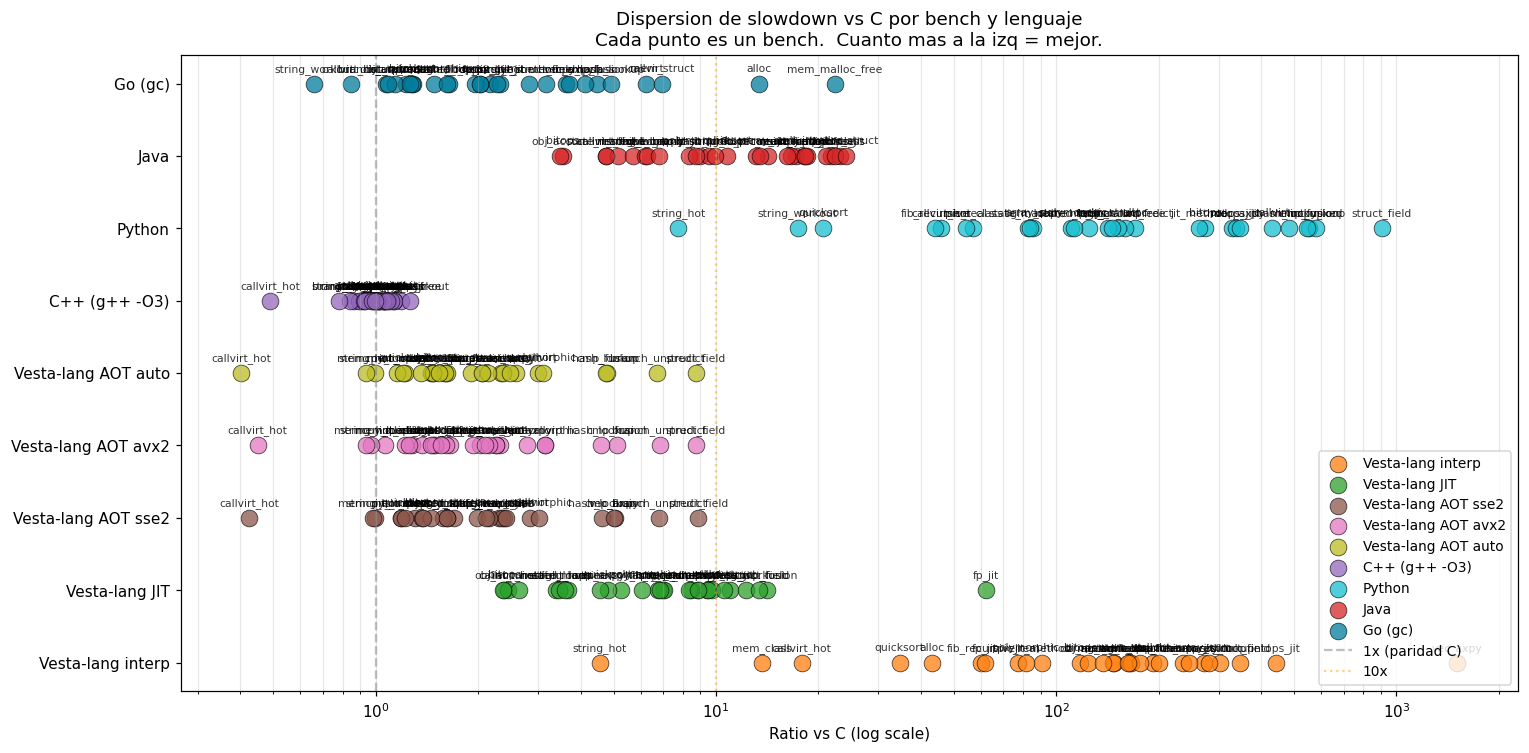
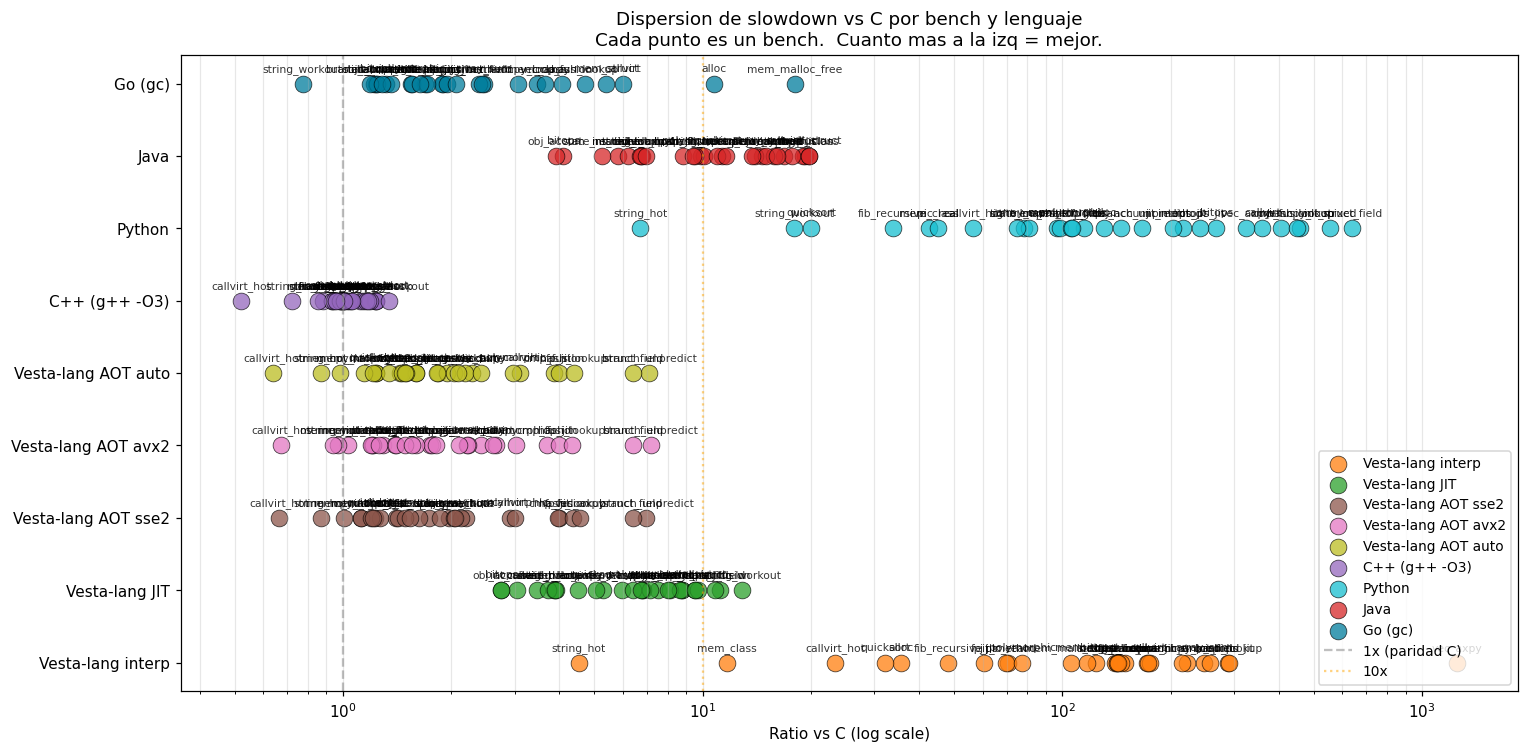
vx(asm): lift de movzx/movsx/movsxd (extension de ancho) a IR
El lifter general reconoce las extensiones de ancho: movzx (zero-extend) y
movsx/movsxd (sign-extend) leen la fuente a su ancho y la escriben en el destino
con la semantica exacta de x86 (ya cubierta por el modelo de anchos).  Solo
reg-reg; memoria -> camino opaco.  Verificado interp==jit==aot (incluido byte de
16 bits y sign-extend).  Ejemplo asm_movext.vx + test modes3.  e2e 674/0.

diff --git a/bench_plots/index.html b/bench_plots/index.html
@@ -33,7 +33,7 @@
     </style>
 </head><body>
 <h1>VestaVM Benchmark Report</h1>
-<p class="meta">Generado 2026-07-18 19:25:49 &middot; JSON: <code>F:\C\VM\bench_results.json</code></p>
+<p class="meta">Generado 2026-07-19 21:21:10 &middot; JSON: <code>F:\C\VM\bench_results.json</code></p>
 <h2>Sistema</h2>
 <dl class="sysinfo">
 <dt>CPU</dt><dd>13th Gen Intel(R) Core(TM) i7-13700KF (16 fisicos / 24 logicos @ 3400 MHz)</dd>
@@ -43,7 +43,7 @@
 </dl>
 <h2>Toolchains</h2>
 <dl class="sysinfo">
-<dt>Vesta-lang VM</dt><dd>Vesta v0.1.0-alpha (build 2026-07-18 19:22:17, 5430950+)</dd>
+<dt>Vesta-lang VM</dt><dd>Vesta v0.1.0-alpha (build 2026-07-19 21:19:00, 91d3668+)</dd>
 <dt>C (gcc)</dt><dd>gcc.EXE (tdm64-1) 10.3.0</dd>
 <dt>C++ (g++)</dt><dd>g++.EXE (tdm64-1) 10.3.0</dd>
 <dt>Python</dt><dd>Python 3.11.0</dd>
@@ -55,51 +55,51 @@
 <table>
 <thead><tr><th>Benchmark</th><th>Vesta-lang interp</th><th>Vesta-lang JIT</th><th>Vesta-lang AOT sse2</th><th>Vesta-lang AOT avx2</th><th>Vesta-lang AOT auto</th><th>C (gcc -O3)</th><th>C++ (g++ -O3)</th><th>Python (CPython)</th><th>Java (HotSpot)</th><th>Go (gc)</th></tr></thead>
 <tbody>
-<tr><td>alloc</td><td>155.7</td><td>34.0</td><td>4.7</td><td>4.6</td><td>5.3</td><td>3.6</td><td class="winner">3.1</td><td>615.2</td><td>78.6</td><td>48.4</td></tr>
-<tr><td>array_sum</td><td>1569.4</td><td>40.4</td><td>13.7</td><td>13.3</td><td>13.4</td><td>5.8</td><td class="winner">5.2</td><td>493.7</td><td>82.1</td><td>12.5</td></tr>
-<tr><td>bitops</td><td>3306.0</td><td>67.1</td><td>38.3</td><td>38.5</td><td>41.4</td><td>28.1</td><td class="winner">28.0</td><td>7705.2</td><td>99.7</td><td>34.5</td></tr>
-<tr><td>branch_unpredict</td><td>4734.8</td><td>177.9</td><td>136.9</td><td>137.5</td><td>135.3</td><td>20.1</td><td class="winner">18.0</td><td>3216.4</td><td>180.4</td><td>21.6</td></tr>
-<tr><td>callvirt</td><td>950.6</td><td>48.0</td><td>14.1</td><td>15.6</td><td>14.9</td><td class="winner">4.9</td><td>5.2</td><td>2131.0</td><td>84.9</td><td>30.8</td></tr>
-<tr><td>callvirt_hot</td><td>342.5</td><td>46.9</td><td>8.1</td><td>8.6</td><td class="winner">7.7</td><td>19.2</td><td>9.4</td><td>878.1</td><td>91.0</td><td>16.2</td></tr>
-<tr><td>cmp_fusion</td><td>750.1</td><td>52.9</td><td>18.9</td><td>19.1</td><td>18.0</td><td>3.7</td><td class="winner">3.1</td><td>2076.5</td><td>79.0</td><td>16.7</td></tr>
-<tr><td>fib_recursive</td><td>376.6</td><td>44.1</td><td>14.4</td><td>12.7</td><td>12.8</td><td class="winner">6.3</td><td>6.6</td><td>276.3</td><td>81.8</td><td>12.6</td></tr>
-<tr><td>fp_jit</td><td>724.2</td><td>731.9</td><td class="na">N/A</td><td class="na">N/A</td><td class="na">N/A</td><td>11.8</td><td class="winner">10.8</td><td>1464.2</td><td>98.0</td><td>22.9</td></tr>
-<tr><td>hash_lookup</td><td>4372.7</td><td>97.3</td><td>66.4</td><td>66.0</td><td>68.3</td><td>14.4</td><td class="winner">14.0</td><td>6964.0</td><td>137.6</td><td>70.7</td></tr>
-<tr><td>int_mixed</td><td>2876.5</td><td>51.2</td><td>23.0</td><td>23.7</td><td>23.8</td><td class="winner">19.5</td><td>19.9</td><td>11309.0</td><td>100.3</td><td>22.1</td></tr>
-<tr><td>intops_jit</td><td>1591.9</td><td>39.6</td><td>8.5</td><td>8.1</td><td>9.3</td><td class="winner">3.6</td><td>4.3</td><td>1182.4</td><td>83.3</td><td>8.4</td></tr>
-<tr><td>jit_method</td><td>437.9</td><td>40.6</td><td>11.6</td><td>10.8</td><td>11.4</td><td>4.8</td><td class="winner">4.5</td><td>1266.3</td><td>87.5</td><td>13.6</td></tr>
-<tr><td>mem_class</td><td>46.4</td><td>32.3</td><td>4.1</td><td>3.6</td><td>3.9</td><td class="winner">3.4</td><td>3.9</td><td>194.4</td><td>76.1</td><td>14.1</td></tr>
-<tr><td>mem_malloc_free</td><td>677.4</td><td>34.6</td><td>7.0</td><td>6.1</td><td>6.6</td><td class="winner">4.1</td><td>4.7</td><td>629.0</td><td>76.6</td><td>92.7</td></tr>
-<tr><td>mem_struct</td><td>544.9</td><td>34.7</td><td>5.3</td><td>5.4</td><td>5.3</td><td class="winner">3.3</td><td>3.5</td><td>465.7</td><td>79.1</td><td>22.7</td></tr>
-<tr><td>memcpy_loop</td><td>1820.4</td><td>34.1</td><td>6.5</td><td class="winner">6.3</td><td>6.5</td><td>6.5</td><td>7.0</td><td>3550.0</td><td>107.5</td><td>23.5</td></tr>
-<tr><td>nested_loops</td><td>2227.9</td><td>51.4</td><td>23.9</td><td>24.4</td><td>24.3</td><td class="winner">15.2</td><td>15.2</td><td>1678.6</td><td>86.6</td><td>24.9</td></tr>
-<tr><td>obj_accum</td><td>3795.7</td><td>72.2</td><td>44.3</td><td>45.4</td><td>44.9</td><td class="winner">30.5</td><td>31.1</td><td>4443.2</td><td>106.3</td><td>33.1</td></tr>
-<tr><td>pic_real</td><td>470.7</td><td>41.9</td><td>12.1</td><td>11.8</td><td>11.6</td><td class="winner">6.1</td><td>6.8</td><td>331.2</td><td>82.3</td><td>7.9</td></tr>
-<tr><td>polymorphic</td><td>798.4</td><td>59.4</td><td>29.6</td><td>30.8</td><td>30.3</td><td class="winner">9.8</td><td>10.4</td><td>1102.7</td><td>85.5</td><td>14.5</td></tr>
-<tr><td>quicksort</td><td>280.3</td><td>38.9</td><td>9.9</td><td>10.1</td><td>9.8</td><td class="winner">8.1</td><td>8.3</td><td>166.9</td><td>87.1</td><td>10.3</td></tr>
-<tr><td>rotops_jit</td><td>1055.8</td><td>38.1</td><td>5.9</td><td>6.3</td><td>5.9</td><td class="winner">4.3</td><td>4.5</td><td>1449.8</td><td>78.9</td><td>8.7</td></tr>
-<tr><td>state_machine</td><td>3569.1</td><td>74.7</td><td>43.7</td><td>43.7</td><td>43.4</td><td class="winner">20.3</td><td>20.4</td><td>1676.3</td><td>96.0</td><td>25.5</td></tr>
-<tr><td>string_hot</td><td>42.0</td><td>31.8</td><td>9.0</td><td>8.7</td><td>8.6</td><td>9.2</td><td class="winner">7.2</td><td>71.4</td><td>91.8</td><td>21.0</td></tr>
-<tr><td>string_workout</td><td>4386.2</td><td>391.8</td><td>67.3</td><td>66.9</td><td>65.4</td><td>31.9</td><td>40.2</td><td>555.0</td><td>197.5</td><td class="winner">21.0</td></tr>
-<tr><td>struct_field</td><td>2122.6</td><td>81.7</td><td>54.2</td><td>53.3</td><td>53.2</td><td>6.1</td><td class="winner">6.0</td><td>5530.4</td><td>98.5</td><td>19.3</td></tr>
-<tr><td>tight_loop</td><td>2368.1</td><td>52.6</td><td>23.6</td><td>22.7</td><td>22.4</td><td class="winner">14.6</td><td>15.7</td><td>1225.8</td><td>91.3</td><td>23.6</td></tr>
-<tr><td>vec_axpy</td><td>27986.0</td><td>84.7</td><td>92.8</td><td>51.6</td><td>45.9</td><td>18.5</td><td class="winner">18.4</td><td>6425.2</td><td>125.8</td><td>68.7</td></tr>
+<tr><td>alloc</td><td>170.5</td><td>41.9</td><td>5.9</td><td>6.2</td><td>5.9</td><td class="winner">4.8</td><td>5.3</td><td>625.7</td><td>92.4</td><td>51.7</td></tr>
+<tr><td>array_sum</td><td>1655.1</td><td>50.1</td><td>14.7</td><td>16.2</td><td>15.3</td><td>6.7</td><td class="winner">6.6</td><td>521.8</td><td>97.7</td><td>16.5</td></tr>
+<tr><td>bitops</td><td>3559.6</td><td>78.9</td><td>40.2</td><td>40.0</td><td>41.3</td><td class="winner">28.7</td><td>29.4</td><td>7679.1</td><td>117.5</td><td>35.5</td></tr>
+<tr><td>branch_unpredict</td><td>4351.5</td><td>172.4</td><td>136.7</td><td>140.8</td><td>139.6</td><td>19.6</td><td class="winner">19.5</td><td>3275.9</td><td>194.7</td><td>23.9</td></tr>
+<tr><td>callvirt</td><td>939.5</td><td>51.9</td><td>15.9</td><td>14.5</td><td>17.0</td><td>5.4</td><td class="winner">4.8</td><td>1960.5</td><td>91.7</td><td>32.6</td></tr>
+<tr><td>callvirt_hot</td><td>326.5</td><td>48.4</td><td>9.3</td><td>9.4</td><td>9.0</td><td>14.0</td><td class="winner">7.3</td><td>791.5</td><td>95.1</td><td>18.5</td></tr>
+<tr><td>cmp_fusion</td><td>739.6</td><td>55.1</td><td>19.7</td><td>18.2</td><td>19.1</td><td class="winner">4.9</td><td>5.6</td><td>2006.0</td><td>93.8</td><td>20.0</td></tr>
+<tr><td>fib_recursive</td><td>399.7</td><td>49.7</td><td>14.4</td><td>14.5</td><td>15.3</td><td>8.3</td><td class="winner">7.8</td><td>279.9</td><td>93.8</td><td>15.7</td></tr>
+<tr><td>fp_jit</td><td>765.5</td><td>86.5</td><td>50.3</td><td>50.7</td><td>50.6</td><td>12.7</td><td class="winner">12.6</td><td>1458.9</td><td>111.7</td><td>23.9</td></tr>
+<tr><td>hash_lookup</td><td>4472.9</td><td>105.1</td><td>67.2</td><td>66.9</td><td>67.7</td><td>15.4</td><td class="winner">14.4</td><td>7083.0</td><td>156.0</td><td>72.6</td></tr>
+<tr><td>int_mixed</td><td>3041.4</td><td>63.5</td><td>26.5</td><td>25.1</td><td>25.8</td><td class="winner">20.9</td><td>20.9</td><td>11579.3</td><td>121.3</td><td>26.0</td></tr>
+<tr><td>intops_jit</td><td>1671.4</td><td>55.8</td><td>11.3</td><td>10.1</td><td>11.2</td><td>5.7</td><td class="winner">5.7</td><td>1242.0</td><td>101.5</td><td>11.2</td></tr>
+<tr><td>jit_method</td><td>462.5</td><td>53.4</td><td>14.0</td><td>14.6</td><td>13.3</td><td class="winner">6.6</td><td>6.6</td><td>1336.6</td><td>103.4</td><td>15.7</td></tr>
+<tr><td>mem_class</td><td>59.4</td><td>44.1</td><td>5.7</td><td>5.3</td><td>6.9</td><td class="winner">5.1</td><td>6.2</td><td>217.0</td><td>100.8</td><td>17.7</td></tr>
+<tr><td>mem_malloc_free</td><td>721.4</td><td>43.6</td><td>7.7</td><td>8.3</td><td>7.8</td><td>6.8</td><td class="winner">6.4</td><td>657.8</td><td>95.0</td><td>122.8</td></tr>
+<tr><td>mem_struct</td><td>577.0</td><td>46.7</td><td>7.0</td><td>6.9</td><td>7.8</td><td class="winner">4.9</td><td>6.1</td><td>484.1</td><td>97.4</td><td>26.6</td></tr>
+<tr><td>memcpy_loop</td><td>1861.3</td><td>45.7</td><td>8.7</td><td class="winner">8.4</td><td>8.5</td><td>8.7</td><td>10.7</td><td>3889.8</td><td>130.2</td><td>26.5</td></tr>
+<tr><td>nested_loops</td><td>2276.5</td><td>62.6</td><td>26.4</td><td>25.9</td><td>25.8</td><td class="winner">16.2</td><td>16.9</td><td>1720.9</td><td>100.6</td><td>27.5</td></tr>
+<tr><td>obj_accum</td><td>4466.5</td><td>86.3</td><td>46.8</td><td>46.6</td><td>46.0</td><td>31.4</td><td class="winner">30.8</td><td>4589.1</td><td>123.0</td><td>37.4</td></tr>
+<tr><td>pic_real</td><td>541.3</td><td>55.6</td><td>14.5</td><td>14.1</td><td>14.2</td><td class="winner">7.8</td><td>9.2</td><td>351.9</td><td>107.0</td><td>12.0</td></tr>
+<tr><td>polymorphic</td><td>831.7</td><td>72.6</td><td>32.2</td><td>32.5</td><td>31.8</td><td class="winner">10.7</td><td>12.4</td><td>1143.5</td><td>102.5</td><td>16.7</td></tr>
+<tr><td>quicksort</td><td>309.3</td><td>48.4</td><td>11.5</td><td>11.5</td><td>11.6</td><td class="winner">9.6</td><td>10.1</td><td>192.3</td><td>105.4</td><td>13.0</td></tr>
+<tr><td>rotops_jit</td><td>1096.9</td><td>49.9</td><td>7.6</td><td>7.9</td><td>9.3</td><td class="winner">6.2</td><td>7.3</td><td>1509.6</td><td>100.8</td><td>10.7</td></tr>
+<tr><td>state_machine</td><td>3719.4</td><td>83.9</td><td>43.8</td><td>47.4</td><td>46.8</td><td class="winner">21.5</td><td>22.7</td><td>1733.5</td><td>113.1</td><td>27.7</td></tr>
+<tr><td>string_hot</td><td>54.0</td><td>44.3</td><td>10.4</td><td>11.2</td><td>10.4</td><td>11.9</td><td class="winner">8.6</td><td>80.0</td><td>112.3</td><td>24.7</td></tr>
+<tr><td>string_workout</td><td>4735.3</td><td>428.2</td><td>68.3</td><td>70.1</td><td>69.5</td><td>33.4</td><td>44.9</td><td>598.7</td><td>224.1</td><td class="winner">25.8</td></tr>
+<tr><td>struct_field</td><td>2277.4</td><td>96.3</td><td>56.8</td><td>56.9</td><td>56.9</td><td>8.9</td><td class="winner">7.6</td><td>5670.3</td><td>103.2</td><td>21.7</td></tr>
+<tr><td>tight_loop</td><td>2232.2</td><td>60.7</td><td>24.1</td><td>24.3</td><td>23.3</td><td class="winner">15.6</td><td>15.8</td><td>1166.2</td><td>105.2</td><td>25.6</td></tr>
+<tr><td>vec_axpy</td><td>25493.8</td><td>91.7</td><td>93.0</td><td>53.2</td><td>49.3</td><td>20.3</td><td class="winner">19.5</td><td>6579.6</td><td>141.5</td><td>74.4</td></tr>
 </tbody></table>
 <h2>Geomean slowdown vs C por categoria</h2>
 <p class="meta">Verde &lt;1.5x &middot; Amarillo &lt;3x &middot; Rojo &ge;3x</p>
 <table>
 <thead><tr><th>Categoria</th><th>N</th><th>Vesta-lang interp</th><th>Vesta-lang JIT</th><th>Vesta-lang AOT sse2</th><th>Vesta-lang AOT avx2</th><th>Vesta-lang AOT auto</th><th>C++ (g++ -O3)</th><th>Python (CPython)</th><th>Java (HotSpot)</th><th>Go (gc)</th></tr></thead>
 <tbody>
-<tr><td>alloc</td><td>4</td><td class="cat-bad">63.17x</td><td class="cat-bad">9.42x</td><td class="cat-good">1.44x</td><td class="cat-good">1.35x</td><td class="cat-good">1.44x</td><td class="cat-good">1.04x</td><td class="cat-bad">120.25x</td><td class="cat-bad">21.56x</td><td class="cat-bad">9.61x</td></tr>
-<tr><td>bit</td><td>2</td><td class="cat-bad">169.85x</td><td class="cat-bad">4.60x</td><td class="cat-good">1.37x</td><td class="cat-good">1.41x</td><td class="cat-good">1.42x</td><td class="cat-good">1.02x</td><td class="cat-bad">303.85x</td><td class="cat-bad">8.06x</td><td class="cat-mid">1.58x</td></tr>
-<tr><td>branch</td><td>3</td><td class="cat-bad">112.78x</td><td class="cat-bad">5.39x</td><td class="cat-mid">2.61x</td><td class="cat-mid">2.64x</td><td class="cat-mid">2.59x</td><td class="cat-good">0.97x</td><td class="cat-bad">64.83x</td><td class="cat-bad">7.70x</td><td class="cat-good">1.20x</td></tr>
-<tr><td>fp</td><td>1</td><td class="cat-bad">61.60x</td><td class="cat-bad">62.25x</td><td class="na">N/A</td><td class="na">N/A</td><td class="na">N/A</td><td class="cat-good">0.92x</td><td class="cat-bad">124.55x</td><td class="cat-bad">8.34x</td><td class="cat-mid">1.95x</td></tr>
-<tr><td>hash</td><td>1</td><td class="cat-bad">304.01x</td><td class="cat-bad">6.77x</td><td class="cat-bad">4.62x</td><td class="cat-bad">4.59x</td><td class="cat-bad">4.75x</td><td class="cat-good">0.97x</td><td class="cat-bad">484.17x</td><td class="cat-bad">9.57x</td><td class="cat-bad">4.92x</td></tr>
-<tr><td>int</td><td>7</td><td class="cat-bad">149.93x</td><td class="cat-bad">6.05x</td><td class="cat-mid">2.13x</td><td class="cat-mid">2.06x</td><td class="cat-mid">2.10x</td><td class="cat-good">1.01x</td><td class="cat-bad">196.69x</td><td class="cat-bad">11.14x</td><td class="cat-mid">2.10x</td></tr>
-<tr><td>mem</td><td>2</td><td class="cat-bad">276.31x</td><td class="cat-bad">6.07x</td><td class="cat-mid">1.54x</td><td class="cat-good">1.50x</td><td class="cat-mid">1.52x</td><td class="cat-good">0.99x</td><td class="cat-bad">216.42x</td><td class="cat-bad">15.36x</td><td class="cat-mid">2.80x</td></tr>
-<tr><td>misc</td><td>2</td><td class="cat-bad">433.38x</td><td class="cat-bad">3.29x</td><td class="cat-mid">2.70x</td><td class="cat-mid">2.03x</td><td class="cat-mid">1.91x</td><td class="cat-good">1.01x</td><td class="cat-bad">224.67x</td><td class="cat-bad">4.86x</td><td class="cat-mid">2.01x</td></tr>
-<tr><td>oop</td><td>5</td><td class="cat-bad">94.42x</td><td class="cat-bad">6.68x</td><td class="cat-mid">2.30x</td><td class="cat-mid">2.37x</td><td class="cat-mid">2.28x</td><td class="cat-good">0.90x</td><td class="cat-bad">161.31x</td><td class="cat-bad">10.91x</td><td class="cat-mid">2.00x</td></tr>
-<tr><td>string</td><td>2</td><td class="cat-bad">25.04x</td><td class="cat-bad">6.51x</td><td class="cat-good">1.44x</td><td class="cat-good">1.40x</td><td class="cat-good">1.38x</td><td class="cat-good">0.99x</td><td class="cat-bad">11.61x</td><td class="cat-bad">7.85x</td><td class="cat-good">1.22x</td></tr>
+<tr><td>alloc</td><td>4</td><td class="cat-bad">47.65x</td><td class="cat-bad">8.23x</td><td class="cat-good">1.22x</td><td class="cat-good">1.23x</td><td class="cat-good">1.32x</td><td class="cat-good">1.12x</td><td class="cat-bad">85.25x</td><td class="cat-bad">18.01x</td><td class="cat-bad">7.77x</td></tr>
+<tr><td>bit</td><td>2</td><td class="cat-bad">147.72x</td><td class="cat-bad">4.69x</td><td class="cat-good">1.31x</td><td class="cat-good">1.33x</td><td class="cat-good">1.47x</td><td class="cat-good">1.10x</td><td class="cat-bad">254.53x</td><td class="cat-bad">8.13x</td><td class="cat-good">1.46x</td></tr>
+<tr><td>branch</td><td>3</td><td class="cat-bad">107.36x</td><td class="cat-bad">5.57x</td><td class="cat-mid">2.57x</td><td class="cat-mid">2.67x</td><td class="cat-mid">2.66x</td><td class="cat-good">1.03x</td><td class="cat-bad">64.63x</td><td class="cat-bad">8.31x</td><td class="cat-good">1.29x</td></tr>
+<tr><td>fp</td><td>1</td><td class="cat-bad">60.40x</td><td class="cat-bad">6.82x</td><td class="cat-bad">3.97x</td><td class="cat-bad">4.00x</td><td class="cat-bad">4.00x</td><td class="cat-good">0.99x</td><td class="cat-bad">115.11x</td><td class="cat-bad">8.81x</td><td class="cat-mid">1.89x</td></tr>
+<tr><td>hash</td><td>1</td><td class="cat-bad">289.63x</td><td class="cat-bad">6.80x</td><td class="cat-bad">4.35x</td><td class="cat-bad">4.33x</td><td class="cat-bad">4.39x</td><td class="cat-good">0.93x</td><td class="cat-bad">458.64x</td><td class="cat-bad">10.10x</td><td class="cat-bad">4.70x</td></tr>
+<tr><td>int</td><td>7</td><td class="cat-bad">123.23x</td><td class="cat-bad">5.87x</td><td class="cat-mid">1.91x</td><td class="cat-mid">1.86x</td><td class="cat-mid">1.88x</td><td class="cat-good">1.02x</td><td class="cat-bad">159.68x</td><td class="cat-bad">10.54x</td><td class="cat-mid">1.99x</td></tr>
+<tr><td>mem</td><td>2</td><td class="cat-bad">230.58x</td><td class="cat-bad">6.29x</td><td class="cat-good">1.49x</td><td class="cat-mid">1.53x</td><td class="cat-good">1.50x</td><td class="cat-good">1.10x</td><td class="cat-bad">187.16x</td><td class="cat-bad">14.82x</td><td class="cat-mid">2.75x</td></tr>
+<tr><td>misc</td><td>2</td><td class="cat-bad">422.00x</td><td class="cat-bad">3.52x</td><td class="cat-mid">2.61x</td><td class="cat-mid">1.97x</td><td class="cat-mid">1.88x</td><td class="cat-good">0.97x</td><td class="cat-bad">217.31x</td><td class="cat-bad">5.22x</td><td class="cat-mid">2.09x</td></tr>
+<tr><td>oop</td><td>5</td><td class="cat-bad">88.93x</td><td class="cat-bad">7.04x</td><td class="cat-mid">2.33x</td><td class="cat-mid">2.29x</td><td class="cat-mid">2.33x</td><td class="cat-good">0.88x</td><td class="cat-bad">144.32x</td><td class="cat-bad">11.18x</td><td class="cat-mid">2.15x</td></tr>
+<tr><td>string</td><td>2</td><td class="cat-bad">25.34x</td><td class="cat-bad">6.90x</td><td class="cat-good">1.33x</td><td class="cat-good">1.40x</td><td class="cat-good">1.35x</td><td class="cat-good">0.99x</td><td class="cat-bad">10.97x</td><td class="cat-bad">7.95x</td><td class="cat-good">1.26x</td></tr>
 </tbody></table>
 <h2>Graficas</h2>
 <div class="grid-plots">

diff --git a/src/jit/arm64/arm64_select.cpp b/src/jit/arm64/arm64_select.cpp
@@ -350,6 +350,142 @@ std::string arm64_emit_asm(const ir::IrFunction &fn, bool &out_unsupported,
                 emit_st(os, "x11", in.dst); // valor viejo
                 break;
             }
+            case ir::IrOp::FADD:
+            case ir::IrOp::FSUB:
+            case ir::IrOp::FMUL:
+            case ir::IrOp::FDIV: {
+                // Aritmetica flotante en el banco FP (s=f32, d=f64).  El slot
+                // guarda los bits; ldr/str al reg FP + f{add,sub,mul,div}.
+                if (in.operands.size() != 2) {
+                    out_unsupported = true;
+                    return "";
+                }
+                const char *R = (in.type == ir::IrType::F32) ? "s" : "d";
+                const char *op = in.op == ir::IrOp::FADD   ? "fadd"
+                                 : in.op == ir::IrOp::FSUB ? "fsub"
+                                 : in.op == ir::IrOp::FMUL ? "fmul"
+                                                           : "fdiv";
+                os << "    ldr " << R << "0, [sp, #"
+                   << slot_off(in.operands[0]) << "]\n";
+                os << "    ldr " << R << "1, [sp, #"
+                   << slot_off(in.operands[1]) << "]\n";
+                os << "    " << op << " " << R << "0, " << R << "0, " << R
+                   << "1\n";
+                os << "    str " << R << "0, [sp, #" << slot_off(in.dst)
+                   << "]\n";
+                break;
+            }
+            case ir::IrOp::FNEG:
+            case ir::IrOp::FABS:
+            case ir::IrOp::FSQRT: {
+                if (in.operands.size() != 1) {
+                    out_unsupported = true;
+                    return "";
+                }
+                const char *R = (in.type == ir::IrType::F32) ? "s" : "d";
+                const char *op = in.op == ir::IrOp::FNEG   ? "fneg"
+                                 : in.op == ir::IrOp::FABS ? "fabs"
+                                                           : "fsqrt";
+                os << "    ldr " << R << "0, [sp, #"
+                   << slot_off(in.operands[0]) << "]\n";
+                os << "    " << op << " " << R << "0, " << R << "0\n";
+                os << "    str " << R << "0, [sp, #" << slot_off(in.dst)
+                   << "]\n";
+                break;
+            }
+            case ir::IrOp::FCMP_EQ:
+            case ir::IrOp::FCMP_NE:
+            case ir::IrOp::FCMP_LT:
+            case ir::IrOp::FCMP_GT:
+            case ir::IrOp::FCMP_LE:
+            case ir::IrOp::FCMP_GE: {
+                // fcmp + cset.  Para comparaciones ORDENADAS (sin NaN) V=0, asi
+                // que los codigos de condicion con signo valen igual que enteros.
+                if (in.operands.size() != 2) {
+                    out_unsupported = true;
+                    return "";
+                }
+                const ir::IrType ot = fn.values[in.operands[0]].type;
+                const char *R = (ot == ir::IrType::F32) ? "s" : "d";
+                const char *cc = in.op == ir::IrOp::FCMP_EQ   ? "eq"
+                                 : in.op == ir::IrOp::FCMP_NE ? "ne"
+                                 : in.op == ir::IrOp::FCMP_LT ? "lt"
+                                 : in.op == ir::IrOp::FCMP_GT ? "gt"
+                                 : in.op == ir::IrOp::FCMP_LE ? "le"
+                                                              : "ge";
+                os << "    ldr " << R << "0, [sp, #"
+                   << slot_off(in.operands[0]) << "]\n";
+                os << "    ldr " << R << "1, [sp, #"
+                   << slot_off(in.operands[1]) << "]\n";
+                os << "    fcmp " << R << "0, " << R << "1\n";
+                os << "    cset x9, " << cc << "\n";
+                emit_st(os, "x9", in.dst);
+                break;
+            }
+            case ir::IrOp::ITOF:
+            case ir::IrOp::UITOF: {
+                // entero (x9) -> flotante (scvtf con signo / ucvtf sin signo).
+                if (in.operands.size() != 1) {
+                    out_unsupported = true;
+                    return "";
+                }
+                const char *R = (in.type == ir::IrType::F32) ? "s" : "d";
+                const char *cvt =
+                    (in.op == ir::IrOp::ITOF) ? "scvtf" : "ucvtf";
+                emit_ld(os, "x9", in.operands[0]);
+                os << "    " << cvt << " " << R << "0, x9\n";
+                os << "    str " << R << "0, [sp, #" << slot_off(in.dst)
+                   << "]\n";
+                break;
+            }
+            case ir::IrOp::FTOI:
+            case ir::IrOp::FTOUI: {
+                // flotante -> entero truncando hacia cero (fcvtzs/fcvtzu).
+                if (in.operands.size() != 1) {
+                    out_unsupported = true;
+                    return "";
+                }
+                const ir::IrType st = fn.values[in.operands[0]].type;
+                const char *R = (st == ir::IrType::F32) ? "s" : "d";
+                const char *cvt =
+                    (in.op == ir::IrOp::FTOI) ? "fcvtzs" : "fcvtzu";
+                os << "    ldr " << R << "0, [sp, #"
+                   << slot_off(in.operands[0]) << "]\n";
+                os << "    " << cvt << " x9, " << R << "0\n";
+                emit_st(os, "x9", in.dst);
+                break;
+            }
+            case ir::IrOp::F32TOF64: {
+                if (in.operands.size() != 1) {
+                    out_unsupported = true;
+                    return "";
+                }
+                os << "    ldr s0, [sp, #" << slot_off(in.operands[0]) << "]\n";
+                os << "    fcvt d0, s0\n";
+                os << "    str d0, [sp, #" << slot_off(in.dst) << "]\n";
+                break;
+            }
+            case ir::IrOp::F64TOF32: {
+                if (in.operands.size() != 1) {
+                    out_unsupported = true;
+                    return "";
+                }
+                os << "    ldr d0, [sp, #" << slot_off(in.operands[0]) << "]\n";
+                os << "    fcvt s0, d0\n";
+                os << "    str s0, [sp, #" << slot_off(in.dst) << "]\n";
+                break;
+            }
+            case ir::IrOp::BITCAST: {
+                // Reinterpret de bits (mismo ancho, p.ej. i64<->f64): copia el
+                // hueco (x9 = 64 bits) tal cual.
+                if (in.operands.size() != 1) {
+                    out_unsupported = true;
+                    return "";
+                }
+                emit_ld(os, "x9", in.operands[0]);
+                emit_st(os, "x9", in.dst);
+                break;
+            }
             case ir::IrOp::CALL: {
                 // Args a x0..x7 desde sus huecos; bl; resultado (x0) al hueco.
                 if (in.operands.size() > 8) {

diff --git a/src/vx/asm/asm_lift_general.cpp b/src/vx/asm/asm_lift_general.cpp
@@ -574,6 +574,23 @@ bool lift_x86(
                 emit_un(fn, block, ir::IrOp::BYTESWAP, a, line);
             write_reg(rc, 64, rh, res, ok);
             if (!ok) return false;
+        } else if ((m == "movzx" || m == "movsx" || m == "movsxd") &&
+                   ops.size() == 2) {
+            /* Extension de ancho: lee rs a SU ancho (zero-extend en movzx,
+             * sign-extend en movsx/movsxd) y lo escribe en rd.  El modelo de
+             * anchos ya cubre exactamente la semantica x86.  Solo reg-reg
+             * (memoria -> host, camino opaco). */
+            if (is_mem(ops[1])) return false;
+            std::string rc, sc;
+            bool rh = false, sh = false;
+            const int rw = reg_info(ops[0], rc, rh);
+            const int sw = reg_info(ops[1], sc, sh);
+            if (rw == 0 || sw == 0) return false;
+            const bool sgn = (m != "movzx");
+            const ir::IrValueId v = read_reg(sc, sw, sh, sgn, ok);
+            if (!ok) return false;
+            write_reg(rc, rw, rh, v, ok);
+            if (!ok) return false;
         } else {
             return false; // instruccion fuera del subset -> INLINE_ASM
         }

diff --git a/tests/vx/e2e_test.py b/tests/vx/e2e_test.py
@@ -2140,6 +2140,7 @@ modes3_case("asmwidth", "asm: lift general modela anchos x86 (8/16/32/64) en int
 modes3_case("shvar", "shift por cantidad variable (SHL/SHR/SAR via CL) en interp/jit/aot", "shift_variable.vx", 42, line=3654)
 modes3_case("fpround", "float floor/ceil/round/trunc/fmin/fmax (f64+f32) en interp/jit/aot", "fp_rounding.vx", 42, line=3654)
 modes3_case("asmbits", "asm lift de bits (popcnt/lzcnt/tzcnt/bswap -> IrOp neutro) en interp/jit/aot", "asm_bitops.vx", 42, line=3654)
+modes3_case("asmmovext", "asm lift de movzx/movsx (extension de ancho) en interp/jit/aot", "asm_movext.vx", 42, line=3654)
 r0_case("uf210", "unique<T> como campo de contenedor (RAII, deleter al destruir)", "210_unique_en_campo.vx", 42, line=3657)
 r0_case("ur211", "reasignacion de campo unique<T> (libera el anterior, sin fuga)", "211_unique_reassign.vx", 42, line=3658)
 r0_case("sf212", "shared<T> en campo de contenedor (refcount no-GC, inc-on-store + dec-on-dtor)", "212_shared_en_campo.vx", 42, line=3659)
